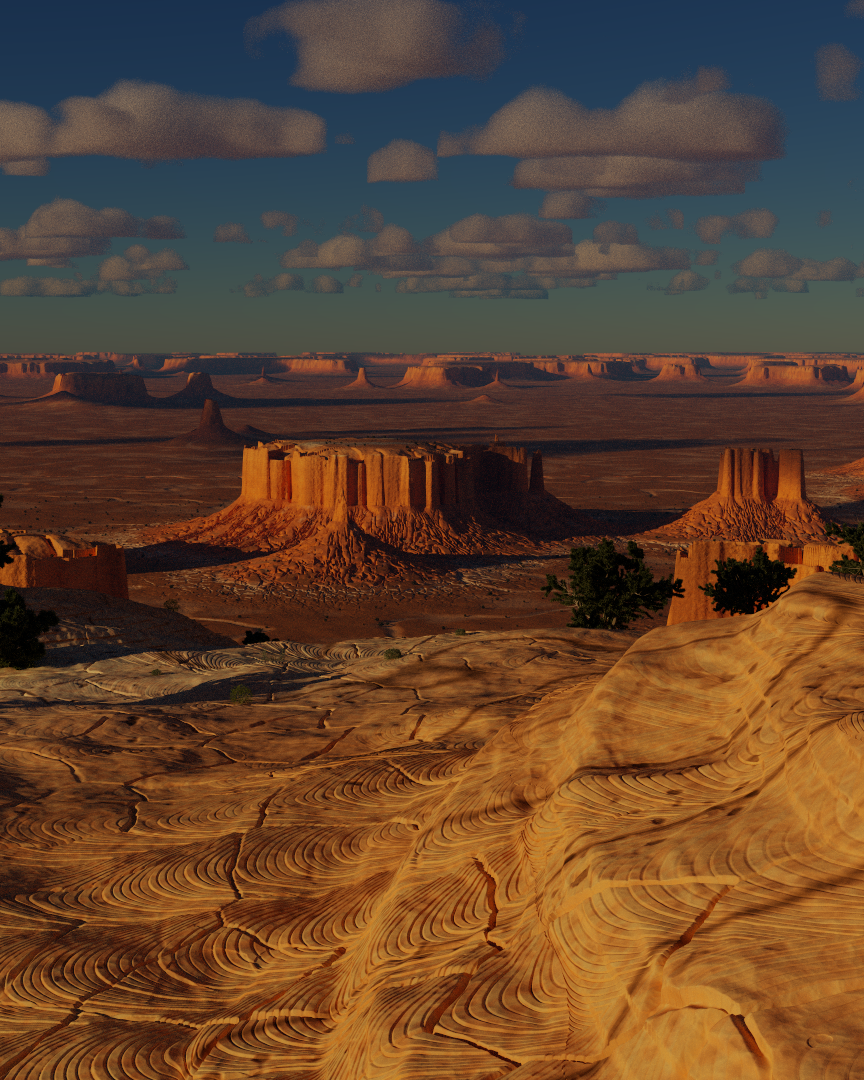
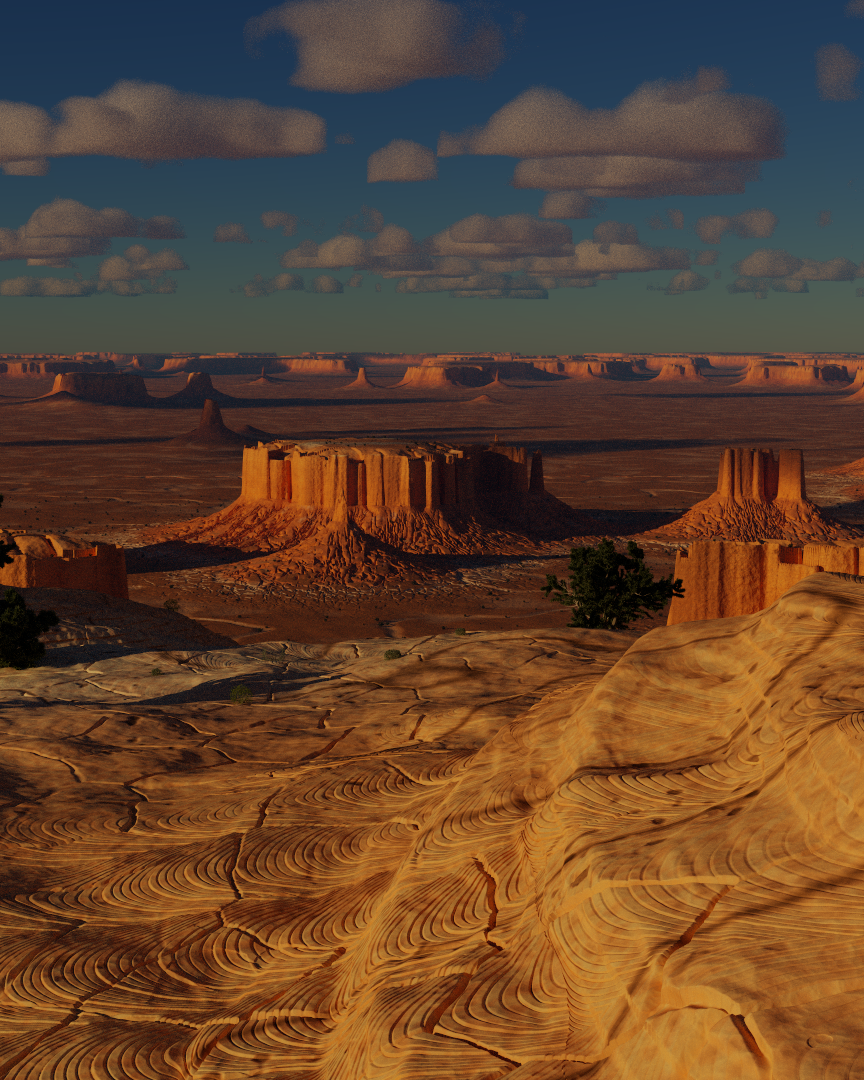
Re-render the overlook and alpine-closeup
The overlook's cross-bed ribs are filtered by their measured finest laminae;
alpine-closeup now has displacement to 4 km, boulders and valley fog, with
its comparison image and caption updated.

Claude-Session: https://claude.ai/code/session_01U8ZZikvbFc4uuVnm5xkyn3

diff --git a/docs/displacement.md b/docs/displacement.md
@@ -166,8 +166,10 @@ back up to 1.8 m under the ones above, and the caprock's lip jutting 1.4 m out.*
 ![Before and after: a mountainside as the clipmap draws it, then displaced](landscape-displacement-comparison.png)
 
 *`demo/scenes/alpine-closeup.json`, 960 x 540 at 32 samples. Top, the landscape's mesh alone;
-bottom, the ground within a kilometre displaced by a graph that reads the simulation: rock
-ribs where it is steep and the simulation left the rock bare, stones where it left scree.*
+bottom, the ground within 4 km displaced by a graph that reads the simulation: rock ribs where
+it is steep and the simulation left the rock bare, stones where it left scree. Both have the
+scene's boulders (a `scatter` on the scree) and fog in the valley (a volume whose density is a
+graph of altitude). 7 min 56 s against 4 min 17 s (4 cores).*
 
 A full-scale `landscape` takes the same `"displacement"` (and `displacement_detail`,
 `vertical_displacement`, `displacement_falloff`). The ground within `displacement_reach`
